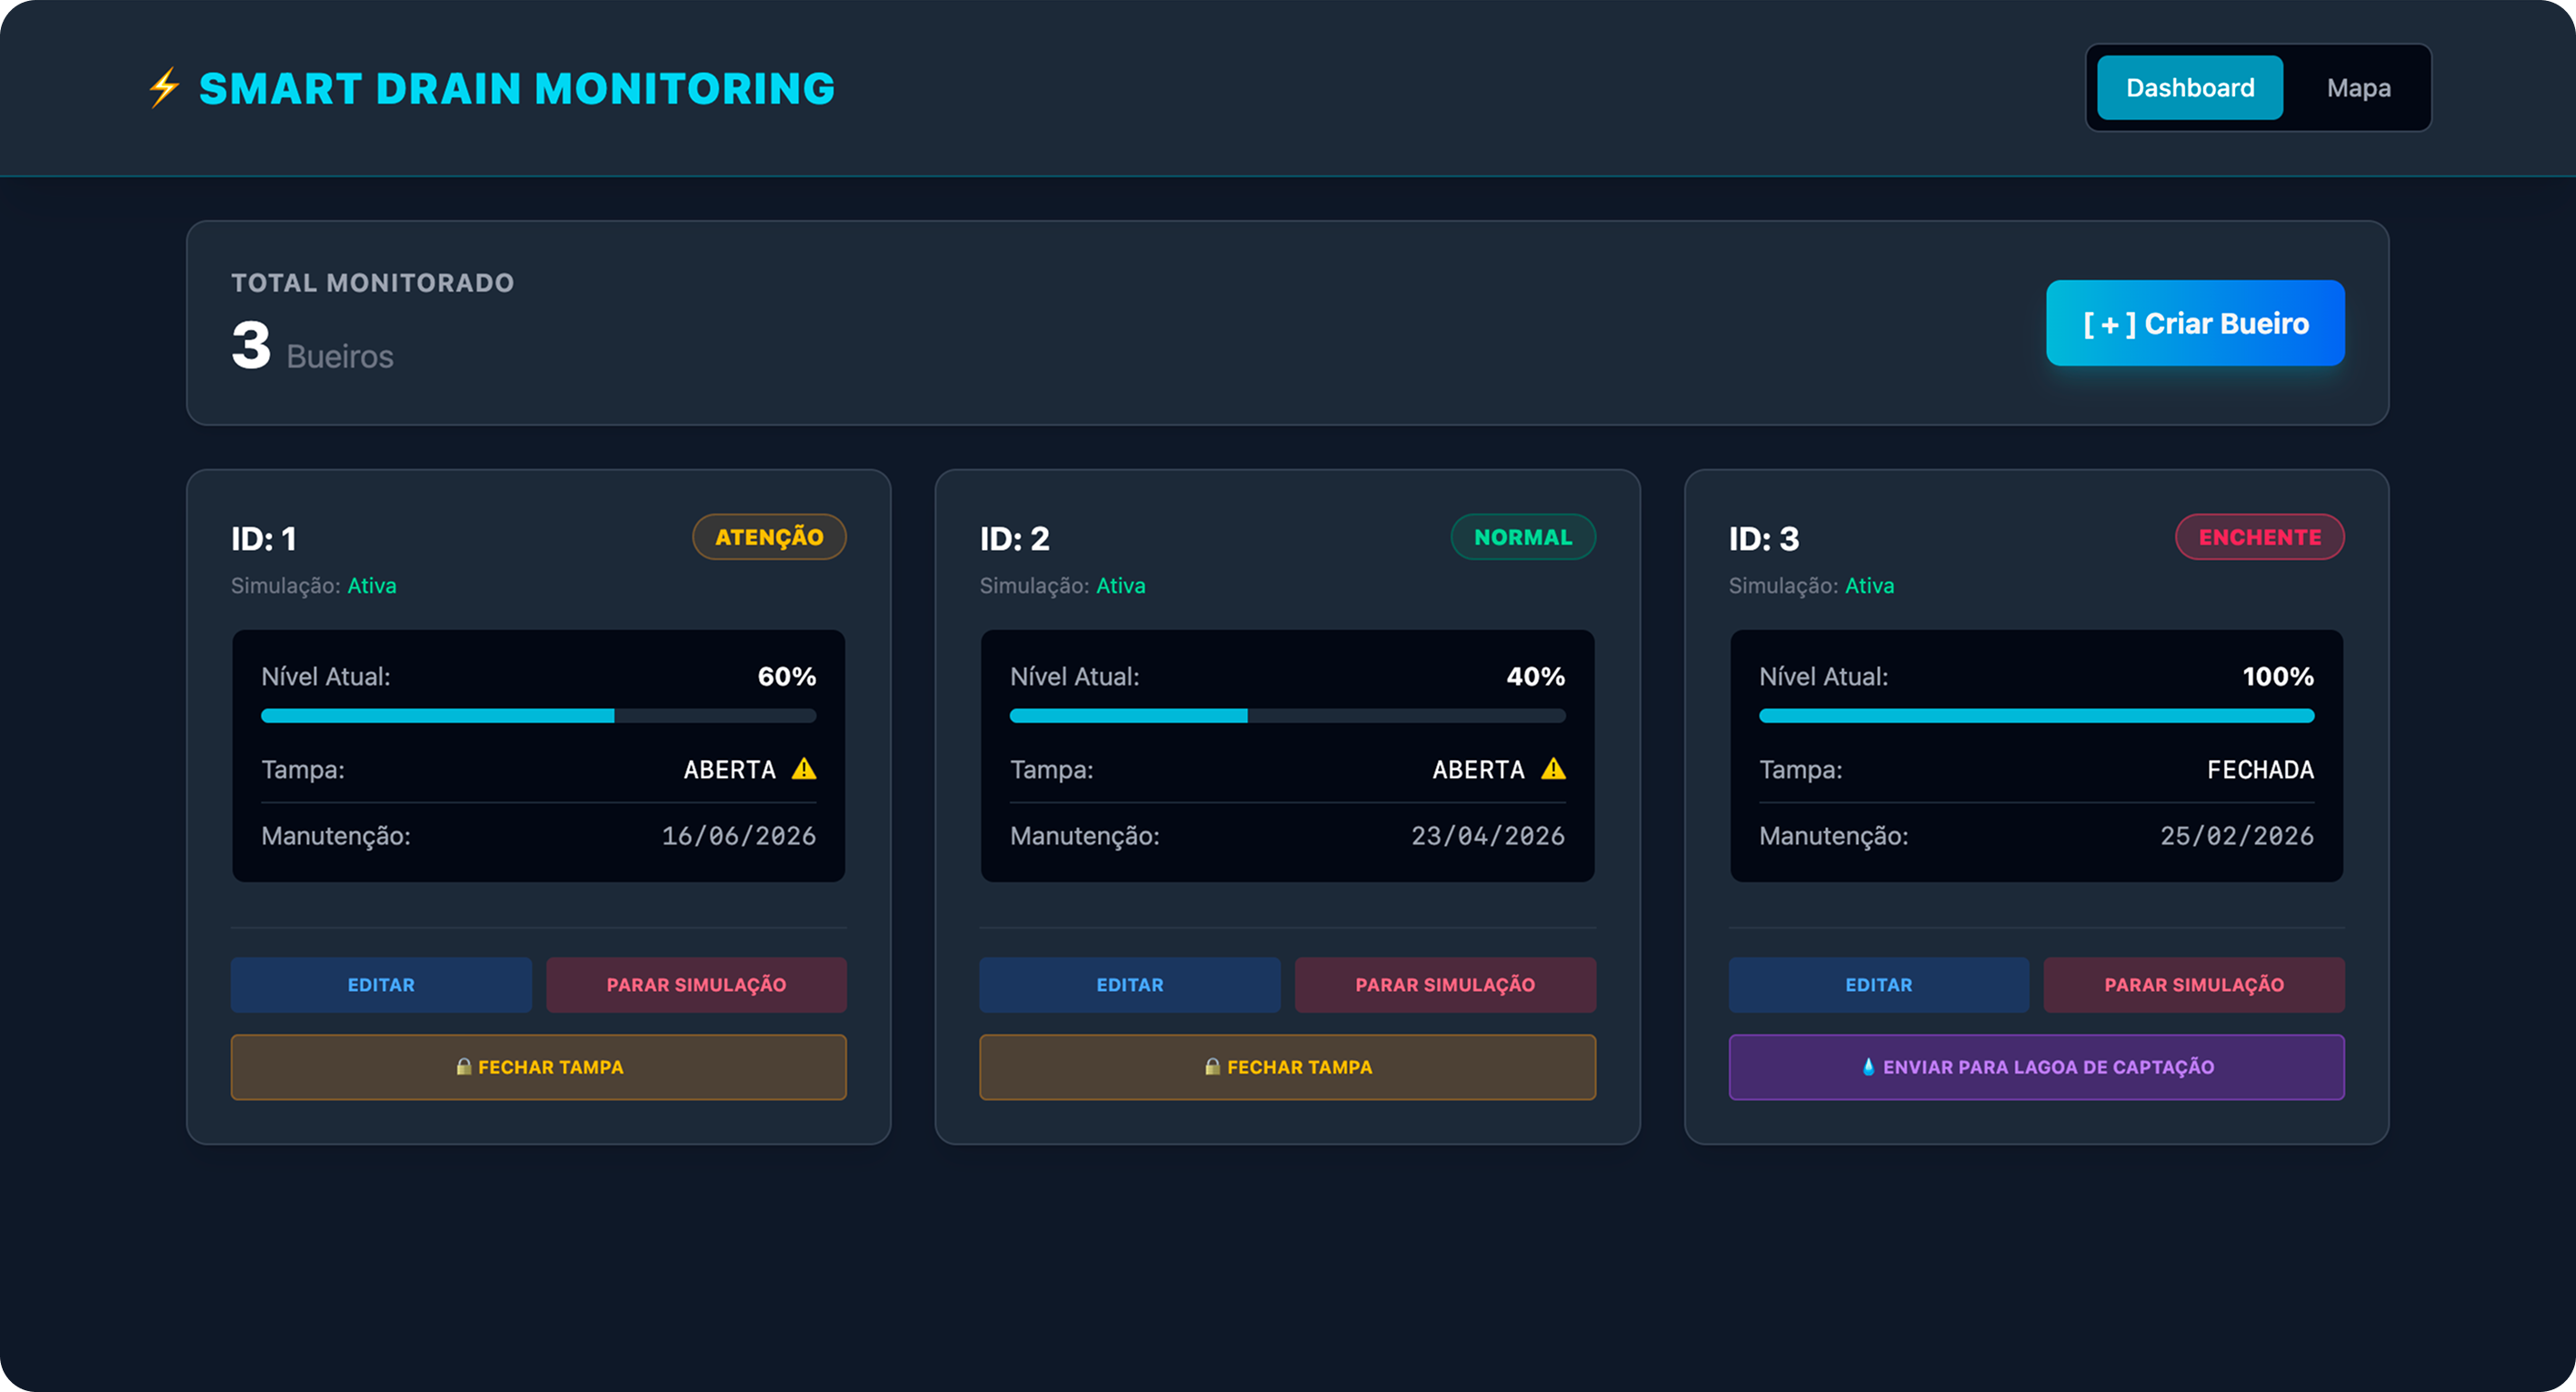
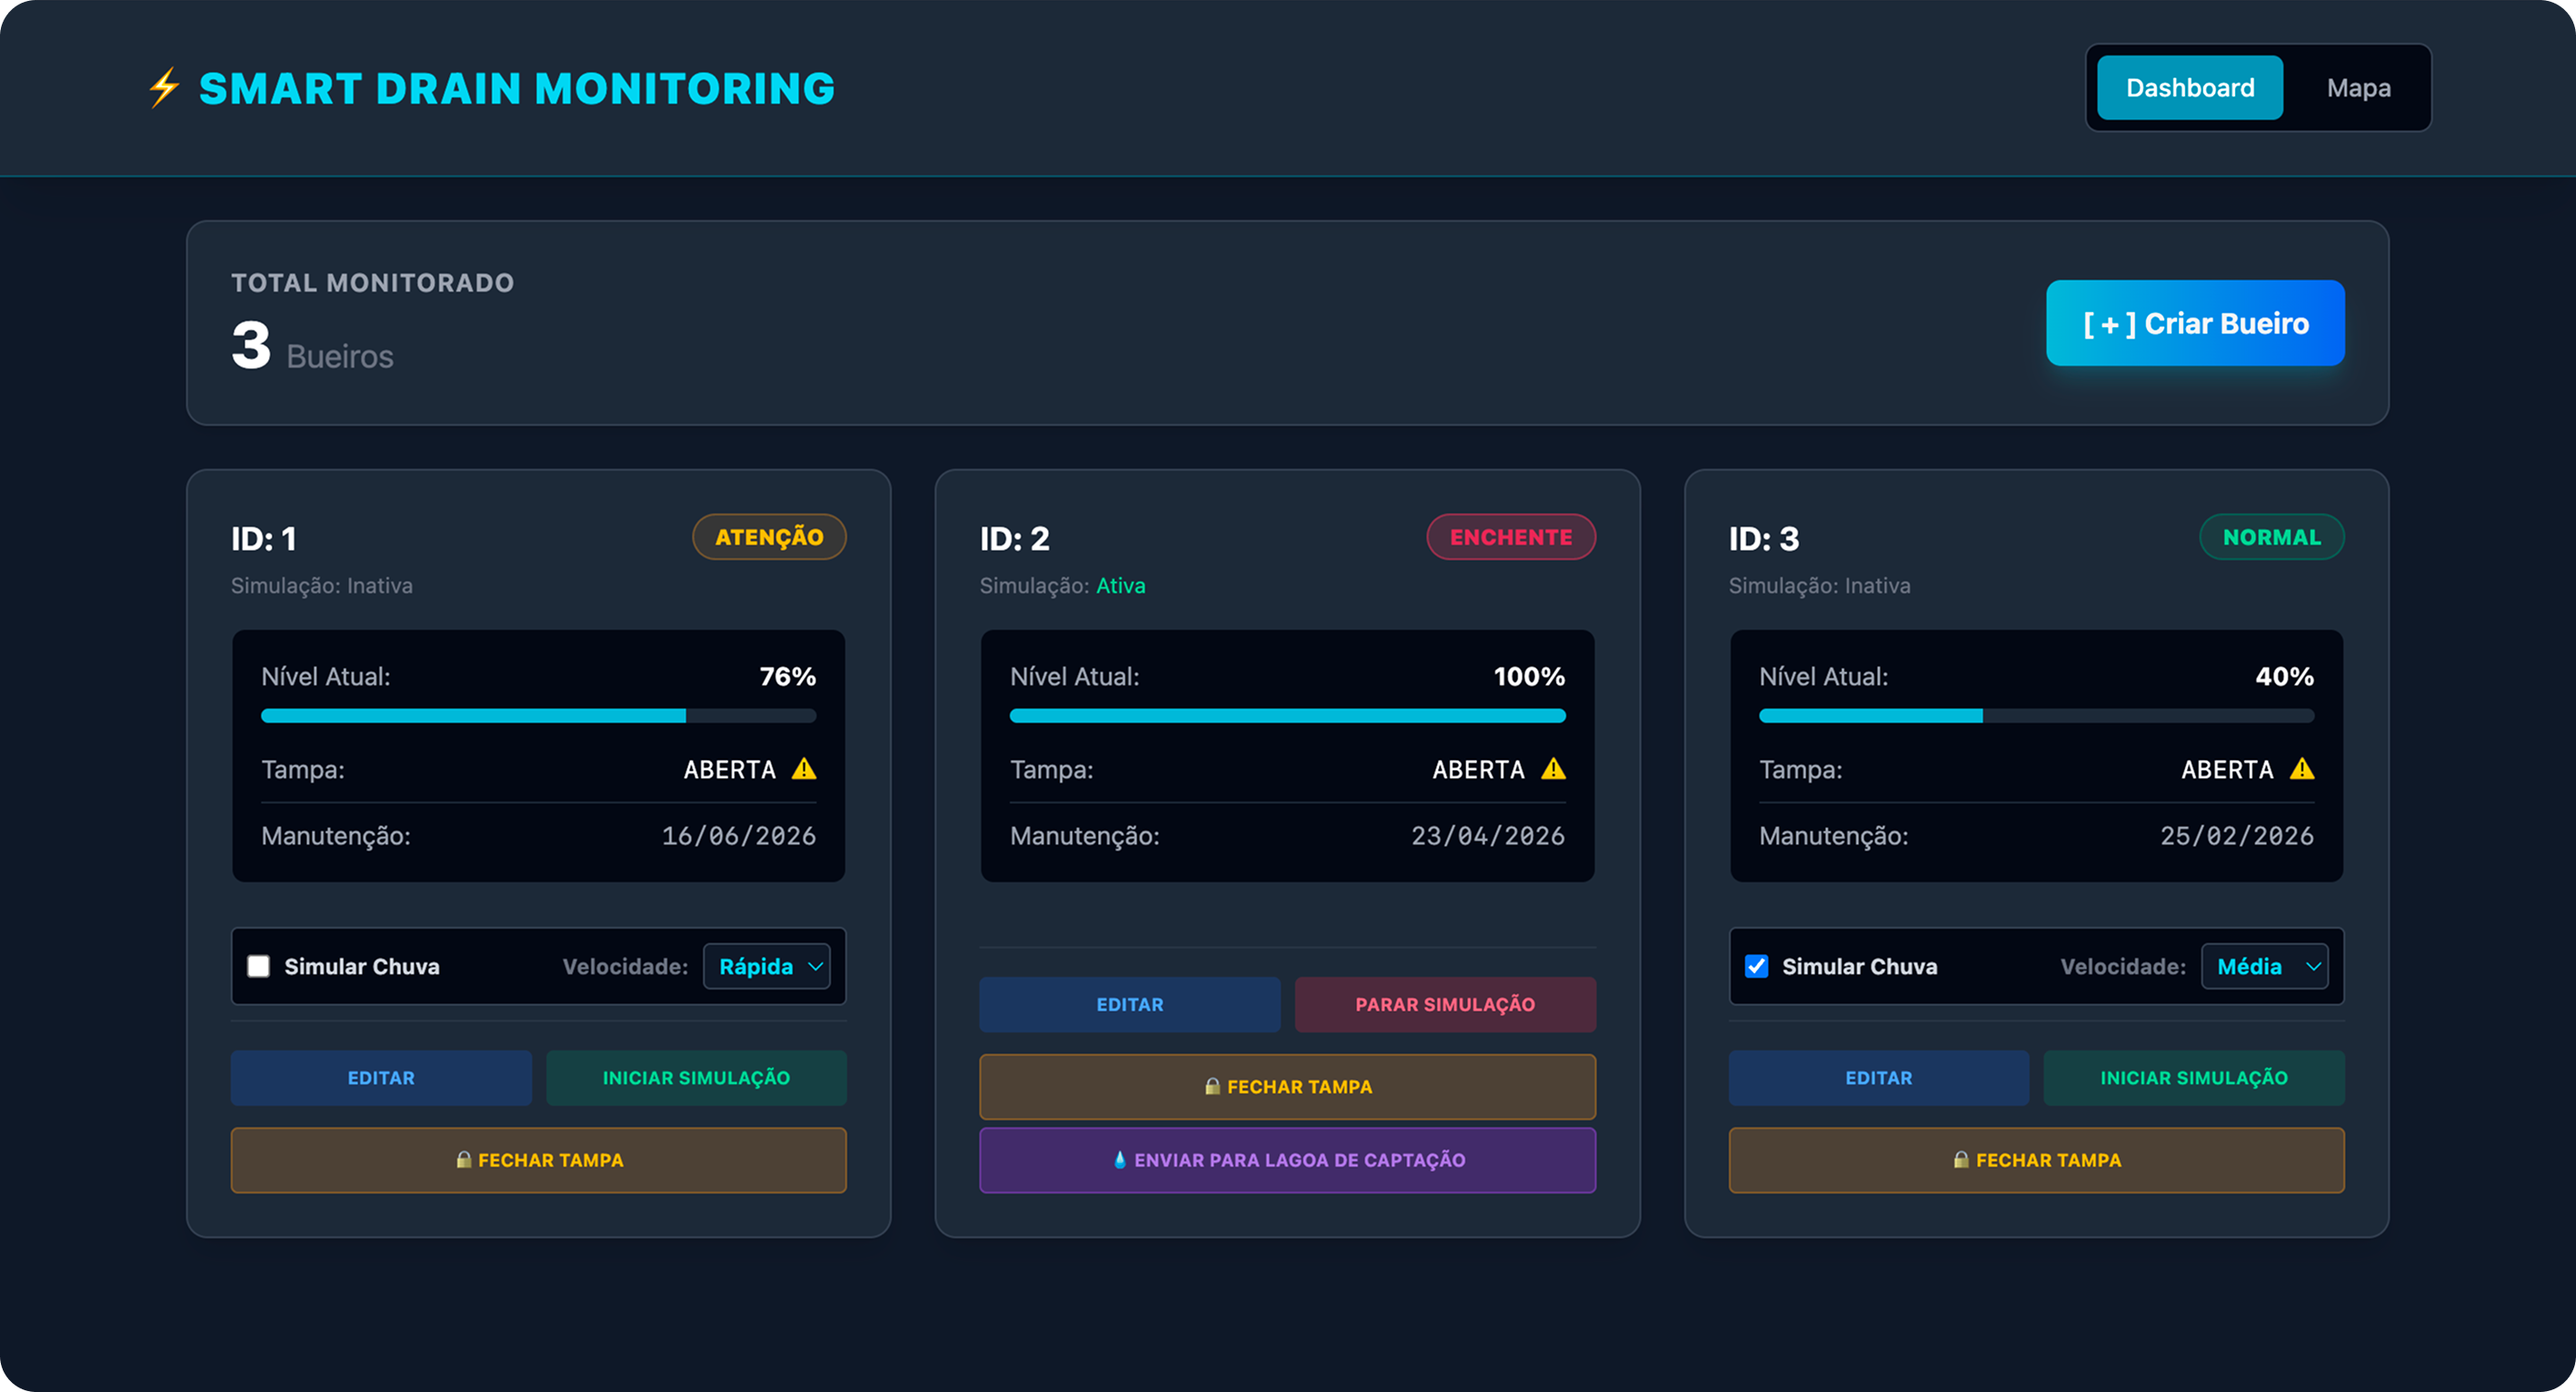
docs: adicionar as funcionaliades da aplicação

diff --git a/README.md b/README.md
@@ -2,19 +2,73 @@
 
 Este é um projeto Full Stack (Node.js + Express + TailwindCSS) para o monitoramento inteligente de bueiros utilizando o ecossistema **FIWARE**. A aplicação realiza o provisionamento automático de componentes, registra novos bueiros via IoT Agent (JSON over HTTP), gerencia o Context Broker (Orion), assina a persistência temporal (QuantumLeap) e monitora tudo em tempo real através de um Dashboard interativo com simulador de chuva.
 
-![Tela de Dashboard](screenshots/dashboard.png)
+## 1. Funcionalidades
 
-![Tela de Dashboard](screenshots/mapa.png)
+### 1.1. Dashboard e Visualização
 
-![Tela de Dashboard](screenshots/criar.png)
+* Painel principal com a contagem total de bueiros monitorados no sistema.
+* Visualização em tempo real do status de cada bueiro através de *cards*, exibindo o nível de água (em barra de progresso e porcentagem), status da tampa (aberta ou fechada) e data da última manutenção.
+* Sistema de alertas visuais dinâmicos nos *cards*, categorizados pelo nível da água: Normal, Atenção, Risco de Enchente e Enchente (com animação pulsante).
+* Aba com Mapa interativo (via Leaflet) exibindo a localização geográfica dos bueiros monitorados.
+* Marcadores no mapa com cores indicativas do nível da água (verde, laranja ou vermelho) e animação de alerta quando a tampa do bueiro encontra-se aberta.
+* Consulta do histórico temporal de alterações e telemetria do bueiro através de integração com o banco de dados.
 
-![Tela de Dashboard](screenshots/editar.png)
+### 1.2. Gestão de Dispositivos (CRUD)
 
-## 1. Motor de Simulação
+* Cadastro de novos bueiros com informações de ID, Latitude, Longitude e Data da última manutenção.
+* Validação geográfica restritiva, garantindo que as coordenadas cadastradas pertençam aos limites de Natal/RN.
+* Prevenção de duplicidade de ID no momento do cadastro e edição.
+* Edição de informações de bueiros existentes, permitindo também a alteração manual do nível da água e do status da tampa.
+* Bloqueio de datas futuras no calendário ao informar a data de manutenção.
+* Exclusão permanente de um bueiro, removendo-o do banco de dados e limpando suas simulações ativas.
+
+### 1.3. Controle Remoto e Operação
+
+* Botão para fechamento remoto da tampa ("Fechar Tampa") quando o sistema detecta que ela está aberta.
+* Mecanismo de segurança (*cooldown*): após um comando manual de fechar a tampa, o sistema impede aberturas acidentais ou simuladas por um período de 5 minutos.
+* Botão de emergência ("Enviar para Lagoa de Captação") que aparece exclusivamente quando o nível de água atinge 100%.
+* Sistema de escoamento (drenagem) progressivo em segundo plano, que reduz o nível da água do bueiro alagado de forma agressiva até estabilizar na cota de segurança de 40%.
+
+### 1.4. Motor de Simulação Automática
+
+* Início e parada rápida da simulação individual por bueiro diretamente pelo *card*.
+* Formulário de configuração de simulação, permitindo definir se haverá fluxo de chuva constante ou não.
+* Configuração da velocidade de atualização da simulação: Lenta (4 segundos), Média (2 segundos) ou Rápida (1 segundo).
+* Simulação climática: com chuva, o nível da água sobe progressivamente; sem chuva, o nível desce de forma natural.
+* Simulação de imprevistos: a tampa possui uma pequena probabilidade de abrir sozinha aleatoriamente durante os ciclos, simulando incidentes urbanos.
+* Salvamento automático das configurações de simulação (velocidade e chuva) na memória local do navegador (localStorage).
+
+### 1.5. Infraestrutura e Backend Integrado
+
+* Auto-provisionamento: na inicialização, o servidor Node.js configura automaticamente os serviços e inscrições (*Subscriptions*) necessárias no ecossistema FIWARE.
+* Limpeza automática de inscrições antigas no sistema para evitar conflitos.
+* Integração direta de telemetria baseada em *JSON over HTTP* através do IoT Agent.
+* Gerenciamento e distribuição de contexto centralizado pelo Orion Context Broker.
+* Integração com QuantumLeap e CrateDB para a gravação contínua e persistência do histórico em banco de dados temporal.
+
+## 2. Interfaces
+
+### 2.1. Monitoramento de Bueiros
+
+![Interface de Dashboard](screenshots/dashboard.png)
+
+### 2.2. Localização de Bueiros
+
+![Interface de Mapa](screenshots/mapa.png)
+
+### 2.3. Criar Bueiro
+
+![Interface de Criar Bueiro](screenshots/criar.png)
+
+### 2.4. Editar e Excluir Bueiro
+
+![Interface de Editar Bueiro](screenshots/editar.png)
+
+## 3. Motor de Simulação
 
 O projeto possui um motor interno no backend que simula o comportamento físico dos bueiros em tempo real. Ele altera variáveis de telemetria, como o nível da água e o estado da tampa, com base em diferentes parâmetros enviados pelo usuário.
 
-### 1.1. Velocidades de Simulação
+### 3.1. Velocidades de Simulação
 
 A velocidade dita a frequência (intervalo) com que o servidor processa a física do bueiro e envia novas telemetrias para o IoT Agent do FIWARE. As opções disponíveis na rota `/api/simulate/auto/start` são:
 
@@ -22,14 +76,14 @@ A velocidade dita a frequência (intervalo) com que o servidor processa a físic
 * **Média (`speed: "media"` ou valor padrão se omitido):** O ciclo ocorre a cada 2 segundos (2000ms).
 * **Rápida (`speed: "rapida"`):** O ciclo ocorre a cada 1 segundo (1000ms).
 
-### 1.2. Cenários Climáticos (Nível da Água)
+### 3.2. Cenários Climáticos (Nível da Água)
 
 A propriedade `simulateRain` determina a progressão do alagamento do bueiro ao longo dos ciclos de simulação:
 
 * **Com Chuva (`simulateRain: true`):** Simula precipitação contínua. O nível da água não desce; pelo contrário, recebe um incremento randômico entre +2 e +9 pontos a cada ciclo, alagando rapidamente até encontrar o limite máximo de 100%.
 * **Sem Chuva / Normal (`simulateRain: false`):** Simula o tempo firme. O nível de água sofre uma oscilação natural para baixo, subtraindo randômicamente de -1 a -4 pontos a cada ciclo até secar totalmente e estabilizar em 0%.
 
-### 1.3. Escoamento / Lagoa de Captação (Drenagem)
+### 3.3. Escoamento / Lagoa de Captação (Drenagem)
 
 A função de esvaziamento de emergência (`/api/devices/:deviceId/drain`) sobrepõe as simulações climáticas atuais para escoar o bueiro em direção à lagoa de captação ou galeria pluvial principal:
 
@@ -37,14 +91,14 @@ A função de esvaziamento de emergência (`/api/devices/:deviceId/drain`) sobre
 * **Nível Seguro:** A drenagem não esvazia o bueiro até 0%. Ela cessa automaticamente assim que o nível da água chega à cota de segurança de 40%.
 * **Fim da Tempestade:** Se o bueiro estiver sob efeito contínuo de Chuva (`simulateRain: true`), ao final do processo de drenagem o sistema interpretará que a tempestade passou e mudará o comportamento para Sem Chuva (`simulateRain: false`), normalizando o sistema.
 
-### 1.4. Comportamento Aleatório da Tampa e Cooldown
+### 3.4. Comportamento Aleatório da Tampa e Cooldown
 
 A simulação inclui imprevistos urbanos:
 
 * **Abertura Acidental:** Se a tampa de um bueiro monitorado estiver fechada (`closed`), existe uma chance aproximada de **8%** em cada ciclo da tampa se abrir espontaneamente (`open`), simulando o deslocamento por força da água ou furtos.
 * **Mecanismo de Cooldown:** Para permitir manutenções efetivas pelo Dashboard, quando um comando manual de fechamento de tampa (`/close-cover`) é emitido, a simulação daquele bueiro entra em estado de *cooldown* (descanso) de **5 minutos** (300.000ms). Durante esta janela, a tampa estará protegida contra aberturas acidentais.
 
-## 2. Pré-requisitos
+## 4. Pré-requisitos
 
 Antes de começar, certifique-se de ter instalado em sua máquina:
 
@@ -52,11 +106,11 @@ Antes de começar, certifique-se de ter instalado em sua máquina:
 * **Node.js** (versão 18 ou superior)
 * **NPM** (gerenciador de pacotes do Node)
 
-## 3. Como Executar o Projeto
+## 5. Como Executar o Projeto
 
 Siga os passos abaixo no terminal para rodar a aplicação:
 
-### 3.1. Iniciar a Infraestrutura FIWARE (Docker)
+### 5.1. Iniciar a Infraestrutura FIWARE (Docker)
 
 Suba todos os containers necessários (Orion, IoT Agent, MongoDB, CrateDB, QuantumLeap e Grafana) em segundo plano:
 
@@ -64,7 +118,7 @@ Suba todos os containers necessários (Orion, IoT Agent, MongoDB, CrateDB, Quant
 docker compose up -d
 ```
 
-### 3.2. Verificar o Status dos Containers
+### 5.2. Verificar o Status dos Containers
 
 Garanta que todos os serviços estão de pé e rodando corretamente:
 
@@ -72,7 +126,7 @@ Garanta que todos os serviços estão de pé e rodando corretamente:
 docker ps
 ```
 
-### 3.3. Instalar as Dependências do Node.js
+### 5.3. Instalar as Dependências do Node.js
 
 Se for a primeira vez rodando o projeto, instale os pacotes necessários:
 
@@ -80,7 +134,7 @@ Se for a primeira vez rodando o projeto, instale os pacotes necessários:
 npm install
 ```
 
-### 3.4. Iniciar o Servidor Backend e Frontend
+### 5.4. Iniciar o Servidor Backend e Frontend
 
 Inicie a aplicação Node.js. O próprio servidor se encarregará de fazer o *provisionamento inicial* (Service Group e Subscription) no FIWARE após 3 segundos:
 
@@ -88,7 +142,7 @@ Inicie a aplicação Node.js. O próprio servidor se encarregará de fazer o *pr
 npm start
 ```
 
-## 4. Acesso à Aplicação
+## 6. Acesso à Aplicação
 
 Assim que o servidor iniciar com sucesso, abra o seu navegador e acesse:
 
@@ -96,7 +150,7 @@ Assim que o servidor iniciar com sucesso, abra o seu navegador e acesse:
 http://localhost:3080
 ```
 
-## 5. Portas da Aplicação e Serviços
+## 7. Portas da Aplicação e Serviços
 
 Abaixo estão as portas utilizadas pelos serviços na arquitetura e suas respectivas funções:
 
@@ -116,23 +170,23 @@ Abaixo estão as portas utilizadas pelos serviços na arquitetura e suas respect
 
 * **Chave de API - API Key `1234`:** O IoT Agent está configurado para utilizar essa chave de segurança na validação do fluxo de envio de dados.
 
-## 6. Exemplos de Requisições via API (cURL)
+## 8. Exemplos de Requisições via API (cURL)
 
 Como navegadores realizam apenas requisições `GET` pela barra de endereços, utilize o seu terminal (via comandos `curl`) ou ferramentas como Postman e Insomnia para testar as rotas de criação, edição ou ação.
 
-### 6.1. Listar todos os bueiros cadastrados
+### 8.1. Listar todos os bueiros cadastrados
 
 ```bash
 curl -X GET http://localhost:3080/api/devices
 ```
 
-### 6.2. Buscar histórico temporal de um bueiro (QuantumLeap)
+### 8.2. Buscar histórico temporal de um bueiro (QuantumLeap)
 
 ```bash
 curl -X GET http://localhost:3080/api/devices/1/history
 ```
 
-### 6.3. Cadastrar um novo bueiro
+### 8.3. Cadastrar um novo bueiro
 
 ```bash
 curl -X POST http://localhost:3080/api/devices \
@@ -145,7 +199,7 @@ curl -X POST http://localhost:3080/api/devices \
 }'
 ```
 
-### 6.4. Atualizar os dados ou status de um bueiro
+### 8.4. Atualizar os dados ou status de um bueiro
 
 ```bash
 curl -X PUT http://localhost:3080/api/devices/1 \
@@ -160,19 +214,19 @@ curl -X PUT http://localhost:3080/api/devices/1 \
 }'
 ```
 
-### 6.5. Fechar a tampa de um bueiro remotamente
+### 8.5. Fechar a tampa de um bueiro remotamente
 
 ```bash
 curl -X POST http://localhost:3080/api/devices/1/close-cover
 ```
 
-### 6.6. Iniciar esvaziamento de emergência (Drenagem)
+### 8.6. Iniciar esvaziamento de emergência (Drenagem)
 
 ```bash
 curl -X POST http://localhost:3080/api/devices/1/drain
 ```
 
-### 6.7. Iniciar simulação automática (Nível da água/Chuva)
+### 8.7. Iniciar simulação automática (Nível da água/Chuva)
 
 *O parâmetro speed aceita: "lenta", "media" ou "rapida".*
 
@@ -186,7 +240,7 @@ curl -X POST http://localhost:3080/api/simulate/auto/start \
 }'
 ```
 
-### 6.8. Parar a simulação automática
+### 8.8. Parar a simulação automática
 
 ```bash
 curl -X POST http://localhost:3080/api/simulate/auto/stop \
@@ -196,7 +250,7 @@ curl -X POST http://localhost:3080/api/simulate/auto/stop \
 }'
 ```
 
-### 6.9. Excluir um bueiro permanentemente
+### 8.9. Excluir um bueiro permanentemente
 
 ```bash
 curl -X DELETE http://localhost:3080/api/devices/1